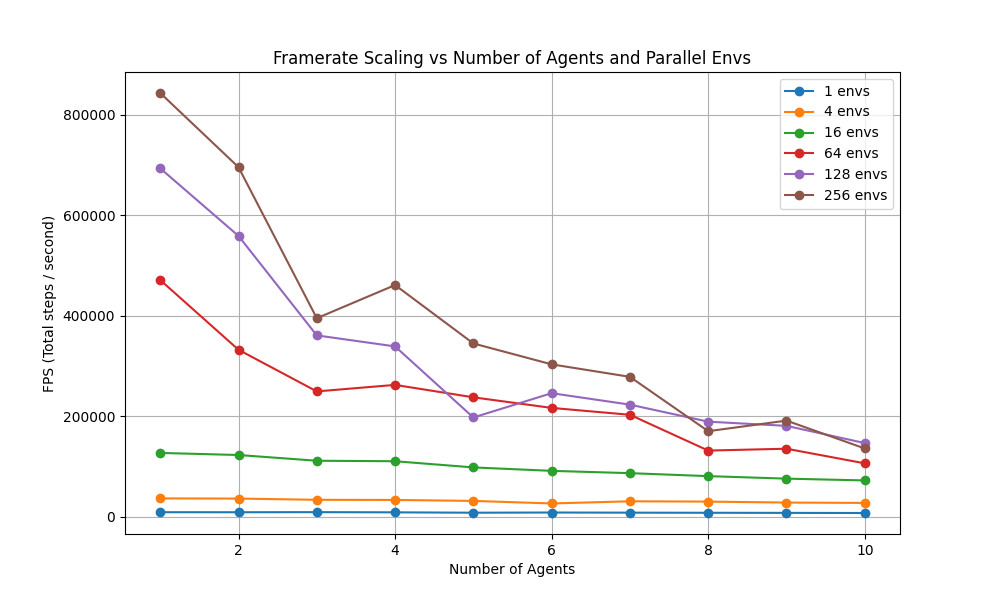
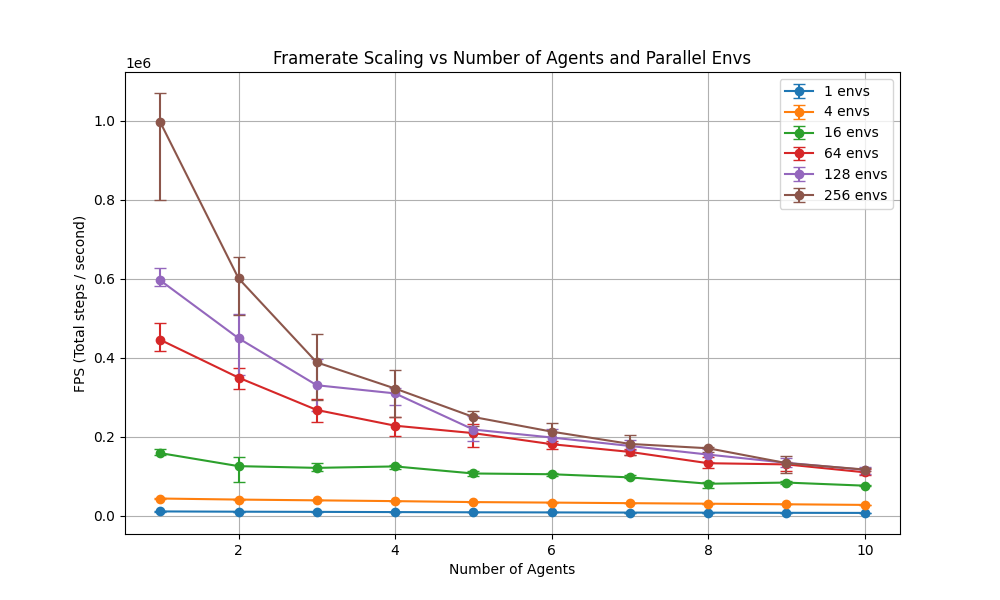
Speedtest_update

diff --git a/speedtest.py b/speedtest.py
@@ -98,9 +98,10 @@ def run_speedtest(
 
 
 def main():
-    steps = 10_000
+    steps = 50_000
     env_counts = [1, 4, 16, 64, 128, 256]
     agent_counts = list(range(1, 11))
+    num_runs = 5
 
     assets = {
         "map_png": "test_level/level.png",
@@ -108,17 +109,36 @@ def main():
         "survivors_json": "test_level/survivors.json",
     }
 
-    results = {n: [] for n in env_counts}
+    results_matrix = np.zeros((len(env_counts), len(agent_counts), num_runs))
 
-    for n_envs in env_counts:
-        for n_agents in agent_counts:
-            fps = run_speedtest(n_envs, n_agents, steps, assets)
-            results[n_envs].append(fps)
+    for env_idx, n_envs in enumerate(env_counts):
+        for agent_idx, n_agents in enumerate(agent_counts):
+            print(f"\n--- Testing {n_envs} envs, {n_agents} agents ---")
+            for run_idx in range(num_runs):
+                fps = run_speedtest(n_envs, n_agents, steps, assets)
+                results_matrix[env_idx, agent_idx, run_idx] = fps
+
+    np.save("speedtest_results_raw.npy", results_matrix)
 
     # Plotting
     plt.figure(figsize=(10, 6))
-    for n_envs, fps_list in results.items():
-        plt.plot(agent_counts, fps_list, marker="o", label=f"{n_envs} envs")
+    for env_idx, n_envs in enumerate(env_counts):
+        run_data = results_matrix[env_idx]
+        means = np.mean(run_data, axis=1)
+        mins = np.min(run_data, axis=1)
+        maxs = np.max(run_data, axis=1)
+        
+        # yerr takes [lower_errors, upper_errors] relative to the mean values
+        yerr = [means - mins, maxs - means]
+        
+        plt.errorbar(
+            agent_counts, 
+            means, 
+            yerr=yerr, 
+            marker="o", 
+            capsize=4,
+            label=f"{n_envs} envs"
+        )
 
     plt.xlabel("Number of Agents")
     plt.ylabel("FPS (Total steps / second)")
@@ -128,7 +148,7 @@ def main():
 
     plot_path = "speedtest_results.png"
     plt.savefig(plot_path)
-    print(f"\nSpeedtest complete. Plot saved to {plot_path}")
+    print(f"\nSpeedtest complete. Plot saved to {plot_path} and raw arrays to speedtest_results_raw.npy")
 
 
 if __name__ == "__main__":
